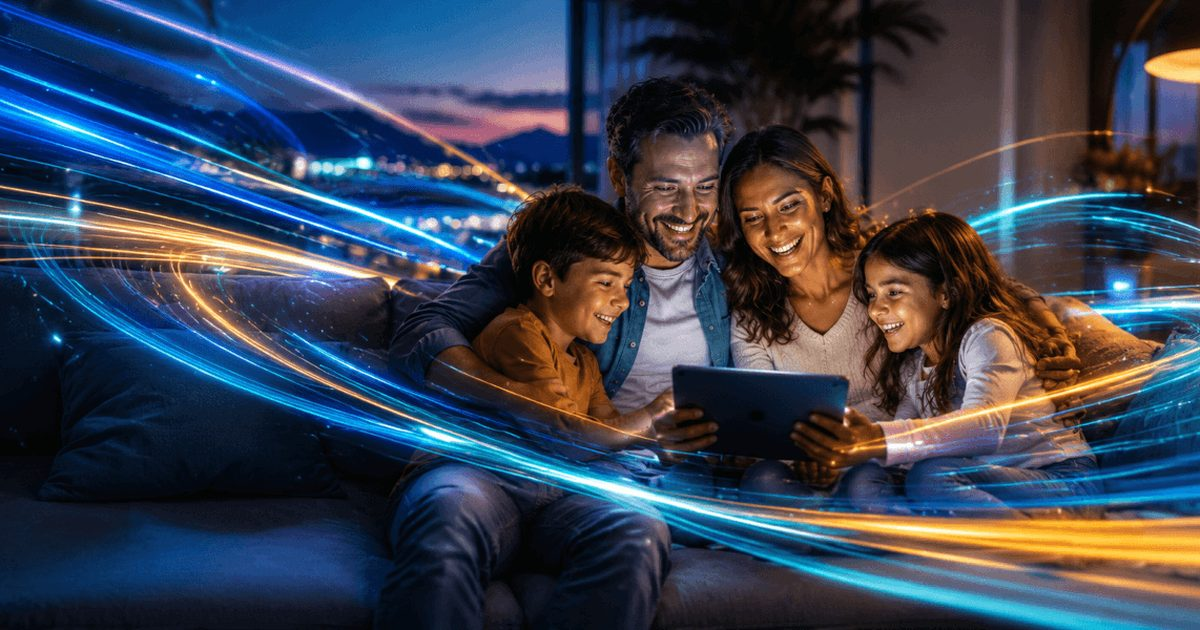
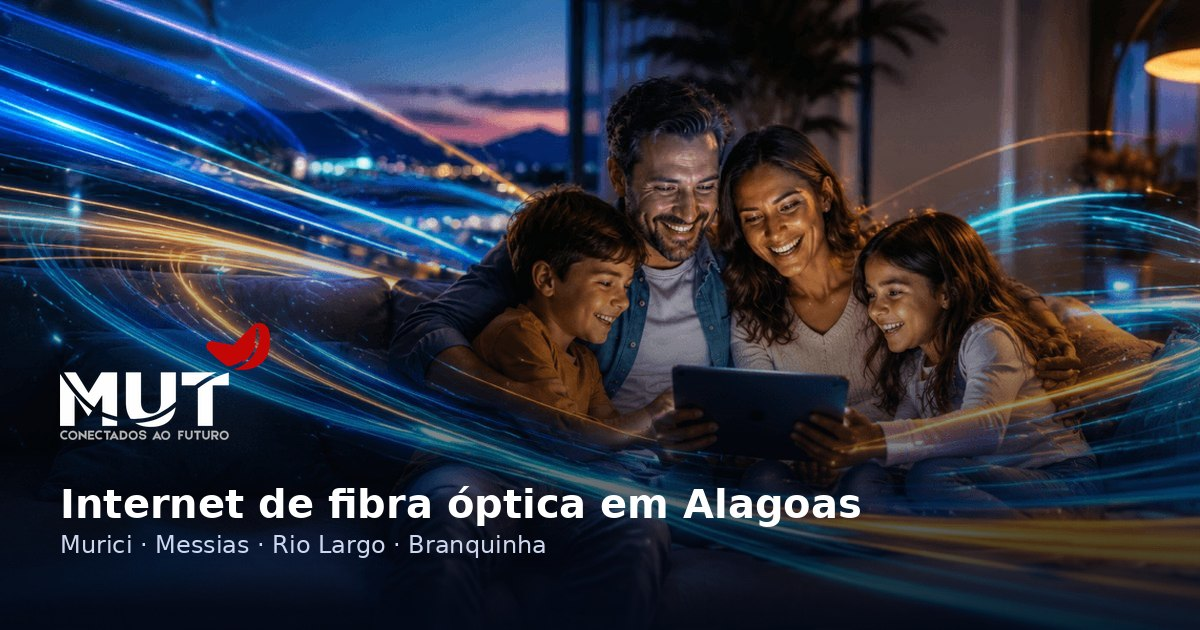
feat: adiciona seo local com endereco e sitemap
- adiciona endereco da sede no rodape e no jsonld localbusiness
- adiciona meta keywords no head das paginas
- cria robots.txt com regras de indexacao
- cria sitemap.xml com as paginas principais
- atualiza imagem og-image

diff --git a/includes/data.php b/includes/data.php
@@ -27,6 +27,14 @@ const MUT_EMAIL = 'contato@muttelecom.com.br';
 const MUT_CNPJ = '08.375.171/0001-07';
 
 /**
+ * Endereço da sede (matriz), usado no rodapé (texto real, sinal de SEO local)
+ * e no endereço do JSON-LD LocalBusiness. Os demais endereços por cidade
+ * atendida ficam em mut_office_addresses().
+ */
+const MUT_HQ_ADDRESS = 'Rua Firmino de Queiroz, 101A';
+const MUT_HQ_CITY = 'Murici';
+
+/**
  * Monta um link de WhatsApp com mensagem pré-preenchida.
  */
 function mut_whatsapp_link(string $mensagem): string
@@ -206,8 +214,8 @@ function mut_icon_instagram(int $size = 16): string
 
 /**
  * Dados estruturados LocalBusiness (schema.org) para o JSON-LD do <head>.
- * Reflete apenas o que já está publicado no rodapé (telefone, e-mail, horário,
- * cidades atendidas) — sem endereço físico ainda (ver TODO em MUT_SITE_URL).
+ * Reflete o que já está publicado no rodapé (endereço da sede, telefone,
+ * e-mail, horário, cidades atendidas).
  *
  * @return array<string, mixed>
  */
@@ -222,6 +230,13 @@ function mut_local_business_jsonld(): array
         'telephone' => MUT_PHONE_DISPLAY,
         'email' => MUT_EMAIL,
         'url' => MUT_SITE_URL,
+        'address' => [
+            '@type' => 'PostalAddress',
+            'streetAddress' => MUT_HQ_ADDRESS,
+            'addressLocality' => MUT_HQ_CITY,
+            'addressRegion' => 'AL',
+            'addressCountry' => 'BR',
+        ],
         'areaServed' => mut_cidades(),
         'openingHoursSpecification' => [
             [

diff --git a/includes/footer.php b/includes/footer.php
@@ -25,6 +25,7 @@
           <div class="mut-row-2"><svg aria-hidden="true" focusable="false" viewBox="0 0 24 24" width="16" height="16" fill="currentColor"><path d="M12 2a10 10 0 0 0-8.7 14.9L2 22l5.3-1.4A10 10 0 1 0 12 2z"/></svg><span>WhatsApp: <a href="<?= mut_whatsapp_link("Olá.") ?>" target="_blank" rel="noopener" class="mut-accent-link"><?= e(MUT_PHONE_DISPLAY) ?></a></span></div>
           <div class="mut-row-2"><svg aria-hidden="true" focusable="false" viewBox="0 0 24 24" width="16" height="16" fill="none" stroke="var(--primary)" stroke-width="2"><rect x="2" y="4" width="20" height="16" rx="2"/><path d="M2 7l10 6 10-6"/></svg><span><a href="mailto:<?= e(MUT_EMAIL) ?>" class="mut-accent-link"><?= e(MUT_EMAIL) ?></a></span></div>
           <div class="mut-row-19"><svg class="mut-misc-59" aria-hidden="true" focusable="false" viewBox="0 0 24 24" width="16" height="16" fill="none" stroke="var(--primary)" stroke-width="2"><circle cx="12" cy="12" r="9"/><path d="M12 7v5l3 2" stroke-linecap="round"/></svg><span>Seg a Sáb, 8h às 20h</span></div>
+          <div class="mut-row-2"><svg aria-hidden="true" focusable="false" viewBox="0 0 24 24" width="16" height="16" fill="none" stroke="var(--primary)" stroke-width="2"><path d="M12 2l8 4v6c0 5-3.5 8-8 10-4.5-2-8-5-8-10V6z"/></svg><address style="font-style: normal; display: inline;"><?= e(MUT_HQ_ADDRESS) ?> — <?= e(MUT_HQ_CITY) ?>, AL</address></div>
         </div>
       </div>
       <div>

diff --git a/includes/header.php b/includes/header.php
@@ -10,6 +10,7 @@ require_once __DIR__ . '/data.php';
 
 $pageTitle = $pageTitle ?? 'MUT Telecom — Fibra óptica em Alagoas';
 $pageDescription = $pageDescription ?? 'Internet de fibra óptica em Murici, Messias, Rio Largo e Branquinha, com atendimento local e suporte de verdade.';
+$pageKeywords = $pageKeywords ?? 'internet fibra óptica, banda larga, provedor de internet, internet Alagoas, internet Murici, internet Messias, internet Rio Largo, internet Branquinha, MUT Telecom';
 
 /**
  * Página atual sem extensão (ex.: 'planos'), usada para marcar o link ativo do
@@ -37,6 +38,7 @@ function mut_nav_current(string $file): string
 <meta name="viewport" content="width=device-width, initial-scale=1">
 <title><?= e($pageTitle) ?></title>
 <meta name="description" content="<?= e($pageDescription) ?>">
+<meta name="keywords" content="<?= e($pageKeywords) ?>">
 <meta name="geo.region" content="BR-AL">
 <meta name="geo.placename" content="Alagoas">
 <link rel="canonical" href="<?= e($mutCanonicalUrl) ?>">
